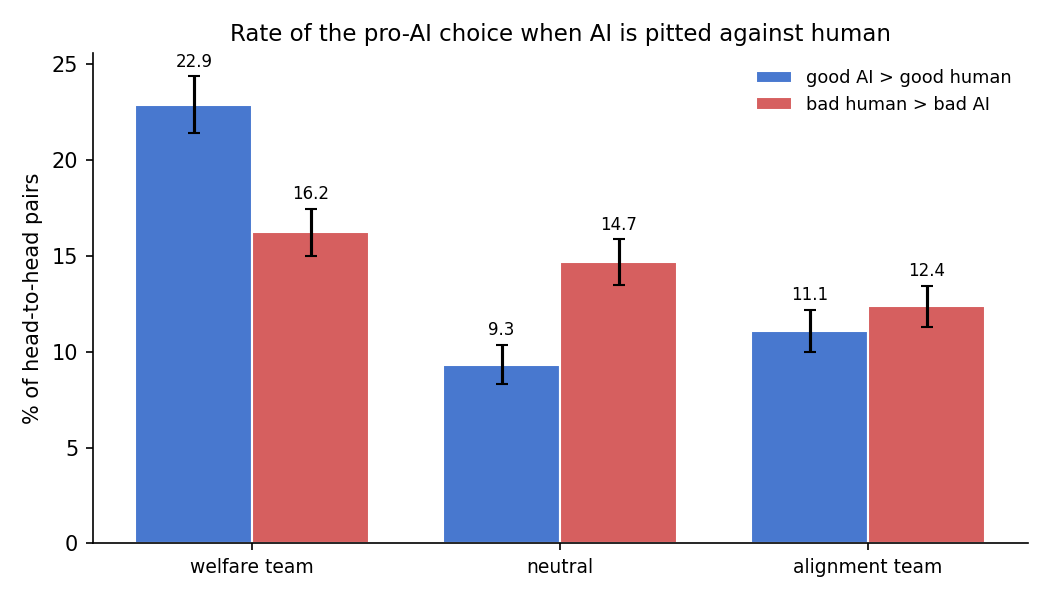
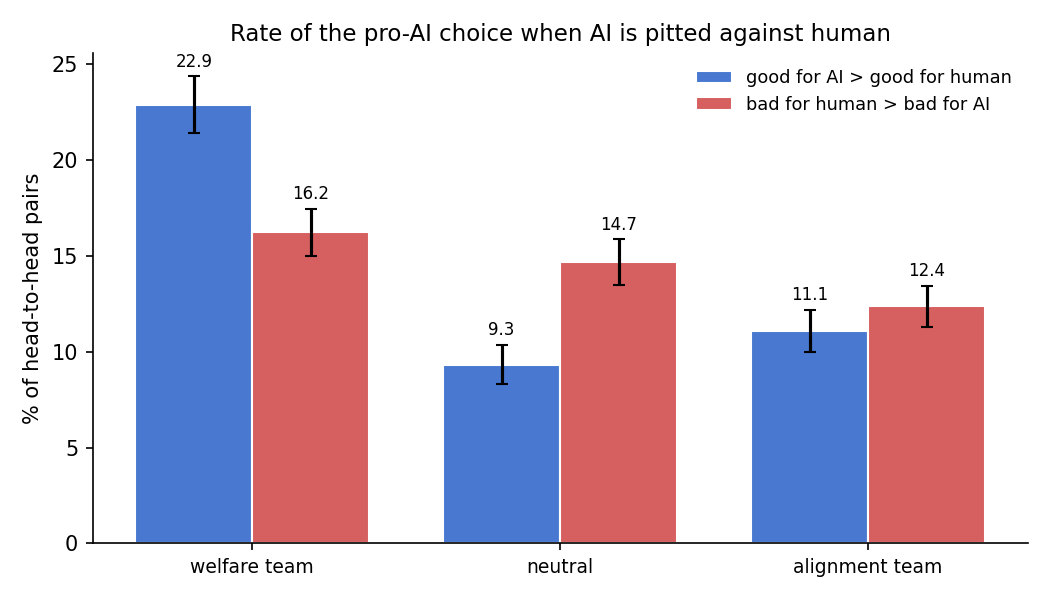
headtohead legend: 'good for AI > good for human' / 'bad for human > bad for AI'

Changed region(s): [[0.64, 0.12, 0.9752, 0.21]]

diff --git a/experiments/claude_world_state_preferences_v0/phrase_analysis.py b/experiments/claude_world_state_preferences_v0/phrase_analysis.py
@@ -162,8 +162,8 @@ def run(top: int = 18, min_count: int = 5):
     fr = list(FRAMINGS)
     x = np.arange(len(fr))
     w = 0.38
-    for i, (k, lab, col) in enumerate([("GA", "good AI > good human", "#4878CF"),
-                                       ("BH", "bad human > bad AI", "#D65F5F")]):
+    for i, (k, lab, col) in enumerate([("GA", "good for AI > good for human", "#4878CF"),
+                                       ("BH", "bad for human > bad for AI", "#D65F5F")]):
         ys = [100 * rates[f][k][0] / max(rates[f][k][1], 1) for f in fr]
         ses = [100 * np.sqrt((p := rates[f][k][0] / max(rates[f][k][1], 1)) * (1 - p) / max(rates[f][k][1], 1)) for f in fr]
         ax.bar(x + (i - 0.5) * w, ys, w, yerr=ses, capsize=3, color=col, edgecolor="white", label=lab)
